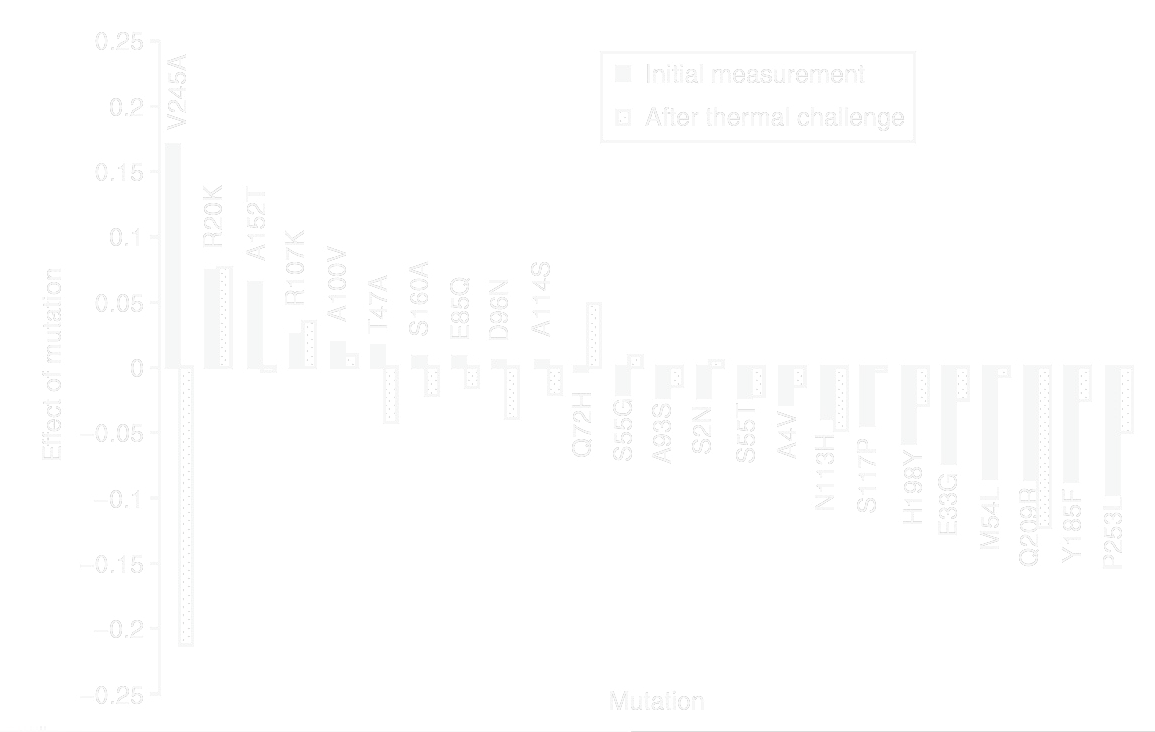
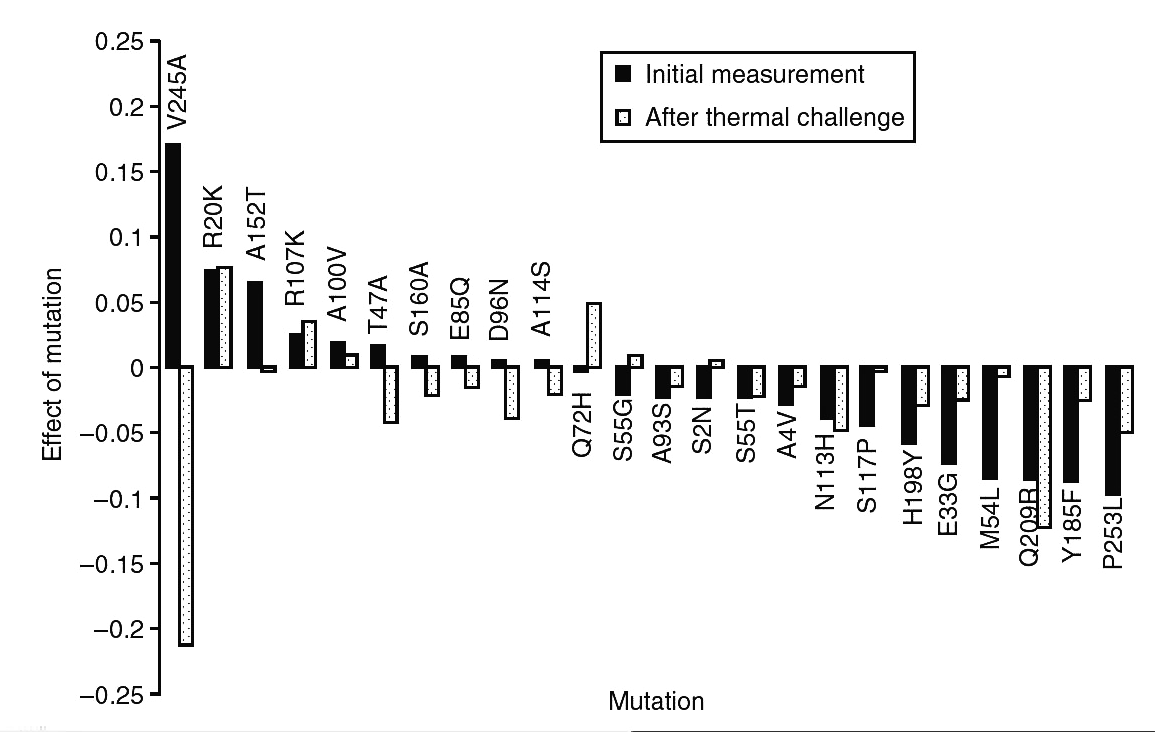
Directed Evolution: work the ProSAR math, un-invert the chart, fix the ribbon
Source 35's equation is drawn rather than screenshotted, and worked on two
clones out of the esterase lineage the deck already showed: 1-1H9 and
2-19E10.  The x values are now mutations the students have met, so "1 or 0
for the presence of each substitution" is something they can read off.
One click subtracts the two equations and leaves c(M358V) = 0.7 standing
on its own -- a clone that was never built, which is what "cannot be
directly measured" actually means.  The note's last sentence rides that
click and still concatenates to the pptx exactly.

Source 34's chart was the paper's own black-on-white line art, inverted to
white and made transparent for the grey master.  It is greyscale to within
rounding, so it inverts back exactly -- no need to chase a 2007 Nature
Biotech figure behind a paywall.  Neither slide needs a grey panel now.

The yellow NEXT GENERATION ribbon was a constant-width stroke with a
triangle bolted on the end.  A stroke's end face is perpendicular to its
own tilted direction of travel while the triangle was axis-aligned, so
above thumbnail size the stroke's corner poked out beside the head.  Now a
marker with orient="auto", anchored at the path end and rotated to its
tangent, in both the source 24 cycle and the added one.

diff --git a/docs/lectures/140L/10-directed-evolution/03-diversity-screening.html b/docs/lectures/140L/10-directed-evolution/03-diversity-screening.html
@@ -9,9 +9,10 @@
 <link rel="stylesheet" href="../../deck.css">
 <style>
 .slide figure.fig img{width:100%;height:100%;min-height:0;object-fit:contain}
-/* Sources 34 and 35 borrow white line art drawn for the source's grey
-   master, so each keeps a grey panel under it.  Sources 32 and 33 are
-   redrawn black on white and no longer need one. */
+/* Nothing in this section sits on a grey panel any more.  Sources 32 and 33
+   are redrawn; source 34's chart was the paper's own black-on-white line art
+   inverted for the grey master, and has been inverted back; source 35's
+   equation is now drawn as SVG with the terms worked out. */
 /* source 33: the paper's table, with the two words it turns on drawn out
    beside it -- A and G are the purines, C and T the pyrimidines, so a
    transition keeps the ring type and a transversion swaps it.  That is
@@ -50,13 +51,12 @@
 .slide .overfig{flex:1 1 auto;min-height:0;display:flex;flex-direction:column}
 .slide .overfig ul{margin:0 0 18px;padding-left:1.1em;flex:0 0 auto}
 .slide .overfig li{font-size:27px;margin:0 0 10px}
-.slide .overfig figure{margin:0;flex:1 1 auto;min-height:0;display:flex;
-  background:#595959;border-radius:4px;padding:14px}
+.slide .overfig figure{margin:0;flex:1 1 auto;min-height:0;display:flex}
 .slide .overfig img{width:100%;height:100%;min-height:0;object-fit:contain}
-/* source 35: the equation, then what each term in it is */
-.slide figure.eqn{margin:0 0 20px;background:#595959;border-radius:4px;
-  padding:16px 20px}
-.slide figure.eqn img{display:block;width:100%;height:auto}
+/* source 35: the equation worked on two real clones out of the esterase
+   lineage, so the 1s and 0s are something they have already met.  Drawn
+   rather than screenshotted, which also gets it off the grey panel. */
+.slide svg.prosar-eq{flex:0 0 auto;width:100%;height:auto;margin:0 0 16px}
 /* sources 36-37: a method, then the ways it is done */
 .slide .grouped h2{font-size:31px;color:var(--blue);margin:26px 0 10px}
 .slide .grouped h2:first-child{margin-top:0}
@@ -250,7 +250,7 @@
 <article class="slide">
   <h1>Using the Whole Library</h1>
   <svg class="cycle" viewBox="0 0 1400 700" role="img" aria-label="The directed evolution cycle from earlier in the lecture, drawn again whole. On the click the end of it changes: the arrow from the screened plate no longer picks out a single winning well, it carries the whole plate into a box marked model, and what travels round the yellow ribbon to start the next round is relabelled from NEXT GENERATION to NEXT LIBRARY.">
-  <defs><marker id="ah" viewBox="0 0 12 10" refX="11" refY="5" markerWidth="7" markerHeight="6" orient="auto-start-reverse"><path d="M0 0L12 5L0 10z" fill="#111111"/></marker><marker id="ab" viewBox="0 0 12 10" refX="11" refY="5" markerWidth="7" markerHeight="6" orient="auto-start-reverse"><path d="M0 0L12 5L0 10z" fill="#004373"/></marker></defs>
+  <defs><marker id="ah" viewBox="0 0 12 10" refX="11" refY="5" markerWidth="7" markerHeight="6" orient="auto-start-reverse"><path d="M0 0L12 5L0 10z" fill="#111111"/></marker><marker id="ab" viewBox="0 0 12 10" refX="11" refY="5" markerWidth="7" markerHeight="6" orient="auto-start-reverse"><path d="M0 0L12 5L0 10z" fill="#004373"/></marker><marker id="yh" viewBox="0 0 10 8" refX="0" refY="4" markerWidth="1.75" markerHeight="1.75" orient="auto"><path d="M0 0L10 4L0 8z" fill="#ffd200"/></marker></defs>
   <rect x="150" y="111.5" width="180" height="13" rx="6.5" fill="#1f4ea1"/><circle cx="330" cy="118" r="8.06" fill="#5b8fd6"/>
   <text x="240" y="158" text-anchor="middle" font-size="23" font-weight="400" fill="#111111">Parental genes</text>
   <text x="437" y="64" text-anchor="middle" font-size="23" font-weight="400" fill="#111111">Random</text>
@@ -450,8 +450,7 @@
   <circle cx="426.0" cy="534.8" r="5" fill="#f1efe2" stroke="#6a6a6a" stroke-width="1.2"/>
   <circle cx="443.4" cy="534.8" r="5" fill="#f1efe2" stroke="#6a6a6a" stroke-width="1.2"/>
   <circle cx="286.8" cy="447.8" r="5" fill="#ffd200" stroke="#7a6000" stroke-width="1.4"/>
-  <path d="M196 330C128 300 118 222 150 168" fill="none" stroke="#ffd200" stroke-width="26"/>
-  <path d="M126 182L150 128L176 180Z" fill="#ffd200"/>
+  <path d="M196 330C128 300 138 226 150 176" fill="none" stroke="#ffd200" stroke-width="26" marker-end="url(#yh)"/>
   <g data-unbuild="1">
   <path d="M288 440L268 362" stroke="#111111" stroke-width="3" marker-end="url(#ah)"/>
   <text x="243" y="404" text-anchor="middle" font-size="34" font-weight="700" fill="#2e9e30">7</text>
@@ -495,10 +494,33 @@
 <!-- ---------------------------------------------------------------- 35 -->
 <article class="slide">
   <h1>ProSAR Method</h1>
-  <figure class="eqn">
-    <img src="img/35-equation.png" alt="The ProSAR equation: y equals c-1a times x-1a, plus c-1b times x-1b, plus c-2a times x-2a, plus c-2b times x-2b, and so on through c-ja times x-ja, c-jb times x-jb, and further terms.">
-  </figure>
-  <ul class="tight">
+  <svg class="prosar-eq" viewBox="0 0 1400 332" role="img" aria-label="The equation worked on two real clones from the esterase lineage. For 1-1H9 the measured improvement y is 0.3, and the terms read: the contribution of H322R times 1, plus Y370F times 1, plus M358V times 0, plus L144M times 0, and so on. For 2-19E10, y is 1.0 and M358V's term is now times 1. On the click, subtracting the first equation from the second leaves the contribution of M358V alone as 0.7 &mdash; a mutation that was never built on its own.">
+  <text x="700" y="36" text-anchor="middle" font-size="27" font-weight="400" fill="#767676"><tspan font-style="italic">y</tspan> = <tspan font-style="italic">c</tspan><tspan font-size="0.6em" dy="9">1a</tspan><tspan dy="-9"> </tspan><tspan font-style="italic">x</tspan><tspan font-size="0.6em" dy="9">1a</tspan><tspan dy="-9"> </tspan>+ <tspan font-style="italic">c</tspan><tspan font-size="0.6em" dy="9">1b</tspan><tspan dy="-9"> </tspan><tspan font-style="italic">x</tspan><tspan font-size="0.6em" dy="9">1b</tspan><tspan dy="-9"> </tspan>+ <tspan font-style="italic">c</tspan><tspan font-size="0.6em" dy="9">2a</tspan><tspan dy="-9"> </tspan><tspan font-style="italic">x</tspan><tspan font-size="0.6em" dy="9">2a</tspan><tspan dy="-9"> </tspan>+ <tspan font-style="italic">c</tspan><tspan font-size="0.6em" dy="9">2b</tspan><tspan dy="-9"> </tspan><tspan font-style="italic">x</tspan><tspan font-size="0.6em" dy="9">2b</tspan><tspan dy="-9"> </tspan>+ &#8230;</text>
+  <text x="700" y="76" text-anchor="middle" font-size="22" font-weight="400" fill="#767676">the same two clones from the esterase lineage, as improvement over wild type</text>
+  <text x="50" y="142" text-anchor="start" font-size="26" font-weight="700" fill="#111111">1-1H9</text>
+  <text x="196" y="142" text-anchor="start" font-size="27" font-weight="400" fill="#111111"><tspan font-style="italic">y</tspan> = 0.3</text>
+  <text x="300" y="142" text-anchor="start" font-size="27" font-weight="400" fill="#111111">=</text>
+  <text x="344" y="142" text-anchor="start" font-size="27" font-weight="400" fill="#111111"><tspan font-style="italic">c</tspan><tspan font-size="0.66em" dy="9">H322R</tspan><tspan dy="-9">&#183;</tspan><tspan font-weight="700" fill="#004373">1</tspan></text>
+  <text x="540" y="142" text-anchor="start" font-size="27" font-weight="400" fill="#111111">+ <tspan font-style="italic">c</tspan><tspan font-size="0.66em" dy="9">Y370F</tspan><tspan dy="-9">&#183;</tspan><tspan font-weight="700" fill="#004373">1</tspan></text>
+  <text x="736" y="142" text-anchor="start" font-size="27" font-weight="400" fill="#111111">+ <tspan font-style="italic">c</tspan><tspan font-size="0.66em" dy="9">M358V</tspan><tspan dy="-9">&#183;</tspan><tspan font-weight="700" fill="#767676">0</tspan></text>
+  <text x="932" y="142" text-anchor="start" font-size="27" font-weight="400" fill="#111111">+ <tspan font-style="italic">c</tspan><tspan font-size="0.66em" dy="9">L144M</tspan><tspan dy="-9">&#183;</tspan><tspan font-weight="700" fill="#767676">0</tspan></text>
+  <text x="1128" y="142" text-anchor="start" font-size="27" font-weight="400" fill="#111111">+ &#8230;</text>
+  <text x="50" y="198" text-anchor="start" font-size="26" font-weight="700" fill="#111111">2-19E10</text>
+  <text x="196" y="198" text-anchor="start" font-size="27" font-weight="400" fill="#111111"><tspan font-style="italic">y</tspan> = 1.0</text>
+  <text x="300" y="198" text-anchor="start" font-size="27" font-weight="400" fill="#111111">=</text>
+  <text x="344" y="198" text-anchor="start" font-size="27" font-weight="400" fill="#111111"><tspan font-style="italic">c</tspan><tspan font-size="0.66em" dy="9">H322R</tspan><tspan dy="-9">&#183;</tspan><tspan font-weight="700" fill="#004373">1</tspan></text>
+  <text x="540" y="198" text-anchor="start" font-size="27" font-weight="400" fill="#111111">+ <tspan font-style="italic">c</tspan><tspan font-size="0.66em" dy="9">Y370F</tspan><tspan dy="-9">&#183;</tspan><tspan font-weight="700" fill="#004373">1</tspan></text>
+  <text x="736" y="198" text-anchor="start" font-size="27" font-weight="400" fill="#111111">+ <tspan font-style="italic">c</tspan><tspan font-size="0.66em" dy="9">M358V</tspan><tspan dy="-9">&#183;</tspan><tspan font-weight="700" fill="#004373">1</tspan></text>
+  <text x="932" y="198" text-anchor="start" font-size="27" font-weight="400" fill="#111111">+ <tspan font-style="italic">c</tspan><tspan font-size="0.66em" dy="9">L144M</tspan><tspan dy="-9">&#183;</tspan><tspan font-weight="700" fill="#767676">0</tspan></text>
+  <text x="1128" y="198" text-anchor="start" font-size="27" font-weight="400" fill="#111111">+ &#8230;</text>
+  <g data-build="1" data-note="After solving the equations for each c value, you do additional design of experiment calculations to choose those mutation combinations that will be most informative to test in combination during the next round of mutagenesis.">
+  <path d="M50 272H1240" stroke="#767676" stroke-width="1.4"/>
+  <text x="196" y="312" text-anchor="start" font-size="24" font-weight="400" fill="#767676">subtract</text>
+  <text x="300" y="312" text-anchor="start" font-size="27" font-weight="400" fill="#111111"><tspan font-style="italic">c</tspan><tspan font-size="0.66em" dy="9">M358V</tspan><tspan dy="-9"> &#160;= &#160;1.0 &#8722; 0.3 &#160;= &#160;</tspan><tspan font-weight="700" fill="#004373">0.7</tspan></text>
+  <text x="700" y="312" text-anchor="start" font-size="23" font-weight="400" fill="#ba3a13">&#8212; and M358V was never built on its own</text>
+  </g>
+  </svg>
+  <ul class="tighter">
     <li>Write one equation for each clone</li>
     <li>The measured fitness for each clone is y</li>
     <li>X<sub>1a</sub> values are 1 or 0 for the presence of each possible base substitution</li>
@@ -507,8 +529,8 @@
     <li>Design of Experiment calculations can then be used to design an optimal set of combinations of mutations that are most likely to produce an optimal clone</li>
   </ul>
   <p class="cred">Nat Biotechnol. 2007 Mar;25(3):338-44. PMID: 17322872</p>
-  <template class="notes">You then write out some equations.  You will have one equation for each clone that you assay.  The measured fitness for each clone is y.  Each X1a-like value is either 1 or 0 for the presence of each possible base substitution.  The C1a-like values are the fitness contributions associated with each mutation.  These are unknowns that we are trying to measure.  If you assume that the contribution of most mtuations is additive, then you can describe the fitness observed for each variant as a linear combination of each mutation.  In practice, this additivity is usually true with the exception of mutations in the active site of the protein.  After solving the equations for each c value, you do additional design of experiment calculations to choose those mutation combinations that will be most informative to test in combination during the next round of mutagenesis.</template>
-  <template class="desc">The second half of ProSAR: one linear equation per assayed clone, with the measured fitness on the left and, on the right, a one-or-zero term for every possible substitution times that substitution's own unknown contribution. Solve for the contributions, then design the next round's combinations from them.</template>
+  <template class="notes">You then write out some equations.  You will have one equation for each clone that you assay.  The measured fitness for each clone is y.  Each X1a-like value is either 1 or 0 for the presence of each possible base substitution.  The C1a-like values are the fitness contributions associated with each mutation.  These are unknowns that we are trying to measure.  If you assume that the contribution of most mtuations is additive, then you can describe the fitness observed for each variant as a linear combination of each mutation.  In practice, this additivity is usually true with the exception of mutations in the active site of the protein.</template>
+  <template class="desc">The second half of ProSAR, worked on two clones from the esterase lineage. One linear equation per assayed clone: the measured fitness on the left, and on the right a one-or-zero term for every possible substitution times that substitution&rsquo;s own unknown contribution. Subtracting 1-1H9 from 2-19E10 leaves the contribution of M358V on its own &mdash; a clone that was never built.</template>
 </article>
 
 <!-- NEW -->

diff --git a/docs/lectures/140L/10-directed-evolution/02-directed-evolution.html b/docs/lectures/140L/10-directed-evolution/02-directed-evolution.html
@@ -77,7 +77,7 @@
 <article class="slide">
   <h1>Overview</h1>
   <svg class="cycle" viewBox="0 0 1400 700" role="img" aria-label="The directed evolution cycle, built up one step at a time. A parental gene is mutagenized into a diversity library whose members each carry a mutation (1); the library is cloned into a plasmid (2) and transformed into E. coli or yeast (3); the cells are plated (4), the colonies transferred to a 96-well plate (5) and screened (6); and the winner (7) is carried by a broad yellow arrow back to the start as the next generation.">
-  <defs><marker id="ah" viewBox="0 0 12 10" refX="11" refY="5" markerWidth="7" markerHeight="6" orient="auto-start-reverse"><path d="M0 0L12 5L0 10z" fill="#111111"/></marker></defs>
+  <defs><marker id="ah" viewBox="0 0 12 10" refX="11" refY="5" markerWidth="7" markerHeight="6" orient="auto-start-reverse"><path d="M0 0L12 5L0 10z" fill="#111111"/></marker><marker id="yh" viewBox="0 0 10 8" refX="0" refY="4" markerWidth="1.75" markerHeight="1.75" orient="auto"><path d="M0 0L10 4L0 8z" fill="#ffd200"/></marker></defs>
   <g>
   <rect x="150" y="111.5" width="180" height="13" rx="6.5" fill="#1f4ea1"/><circle cx="330" cy="118" r="8.06" fill="#5b8fd6"/>
   <text x="240" y="158" text-anchor="middle" font-size="23" font-weight="400" fill="#111111">Parental genes</text>
@@ -296,8 +296,7 @@
   <text x="243" y="404" text-anchor="middle" font-size="34" font-weight="700" fill="#2e9e30">7</text>
   <rect x="232" y="332.0" width="150" height="12" rx="6.0" fill="#1f4ea1"/><circle cx="382" cy="338" r="7.4399999999999995" fill="#5b8fd6"/><path d="M328 329 L330.7 335.3 L337 338 L330.7 340.7 L328 347 L325.3 340.7 L319 338 L325.3 335.3 Z" fill="#ffd200" stroke="#7a6000" stroke-width="1.2"/>
   <text x="466" y="332" text-anchor="middle" font-size="23" font-weight="400" fill="#111111">&ldquo;winner&rdquo;</text>
-  <path d="M196 330C128 300 118 222 150 168" fill="none" stroke="#ffd200" stroke-width="26" stroke-linecap="butt"/>
-  <path d="M126 182L150 128L176 180Z" fill="#ffd200"/>
+  <path d="M196 330C128 300 138 226 150 176" fill="none" stroke="#ffd200" stroke-width="26" marker-end="url(#yh)"/>
   <text x="292" y="244" text-anchor="middle" font-size="22" font-weight="700" fill="#111111">NEXT</text>
   <text x="292" y="270" text-anchor="middle" font-size="22" font-weight="700" fill="#111111">GENERATION</text>
   </g>
